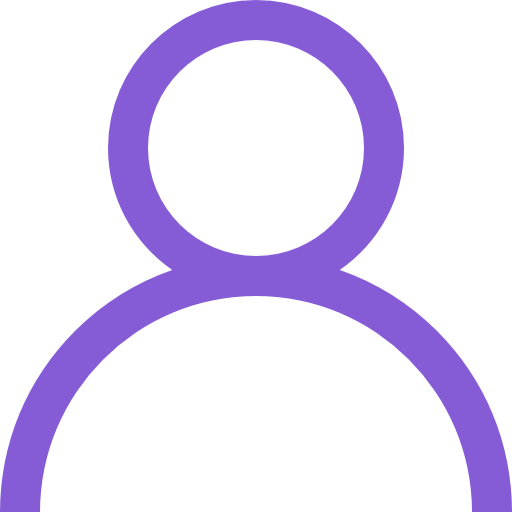
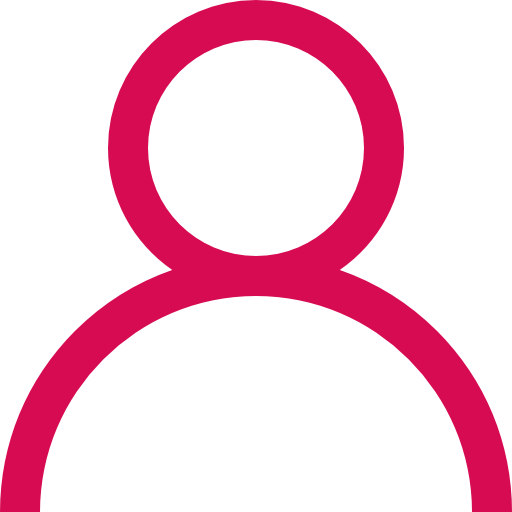
Fix grommet color

Changed region(s): [[0.0, 0.0, 1.0, 1.0]]

diff --git a/src/styles/index.css b/src/styles/index.css
@@ -31,3 +31,71 @@ body {
   font-size: 10pt;
   color: grey;
 }
+
+.grommetux-button--primary:not(.grommetux-button--focus) {
+  border-color: #d60b52;
+}
+
+.grommetux-button--primary {
+  background-color: #d60b52;
+}
+
+.grommetux-button {
+  border: 2px solid #d60b52;
+}
+
+.grommetux-button:not(.grommetux-button--disabled):not(.grommetux-button--plain):not(.grommetux-button--fill).grommetux-button--primary:hover,
+.grommetux-button:not(.grommetux-button--disabled):not(.grommetux-button--plain):not(.grommetux-button--fill):hover {
+  box-shadow: 0 0 0 2px #d60b52;
+}
+
+.grommetux-radio-button__input:checked + .grommetux-radio-button__control {
+  border-color: #d60b52;
+}
+
+.grommetux-radio-button__input:checked
+  + .grommetux-radio-button__control:after {
+  background-color: #d60b52;
+}
+
+.grommetux-background-color-index--dark
+  .grommetux-background-color-index--light
+  .grommetux-radio-button:hover:not(.grommetux-radio-button--disabled)
+  .grommetux-radio-button__control,
+.grommetux-background-color-index--light
+  .grommetux-radio-button:hover:not(.grommetux-radio-button--disabled)
+  .grommetux-radio-button__control,
+.grommetux-radio-button:hover:not(.grommetux-radio-button--disabled)
+  .grommetux-radio-button__input:checked
+  + .grommetux-radio-button__control {
+  border-color: #d60b52;
+}
+
+.grommetux-radio-button__control {
+  border: 2px solid #d60b52;
+}
+
+.grommetux-check-box__control {
+  border: 2px solid #d60b52;
+}
+
+.grommetux-background-color-index--dark
+  .grommetux-background-color-index--light
+  .grommetux-check-box:hover:not(.grommetux-check-box--disabled)
+  .grommetux-check-box__control,
+.grommetux-background-color-index--light
+  .grommetux-check-box:hover:not(.grommetux-check-box--disabled)
+  .grommetux-check-box__control,
+.grommetux-check-box:hover:not(.grommetux-check-box--disabled)
+  .grommetux-check-box__input:checked
+  + .grommetux-check-box__control {
+  border-color: #d60b52;
+}
+
+.grommetux-check-box__control-check {
+  stroke: #d60b52;
+}
+
+.grommetux-check-box__input:checked + .grommetux-check-box__control {
+  border-color: #d60b52;
+}

diff --git a/src/components/GetStartedSubjects/index.js b/src/components/GetStartedSubjects/index.js
@@ -31,7 +31,7 @@ class GetStartedEducationLevel extends Component {
       <Box full pad="large">
         <Heading>Education</Heading>
         <Box flex="grow" justify="center">
-          <Label>What is your last education level?</Label>
+          <Label>Which subjects do you feel interested in?</Label>
           <Box pad={{ between: 'small' }}>
             {options.map(el => (
               <CheckBox
@@ -49,7 +49,10 @@ class GetStartedEducationLevel extends Component {
         </Box>
         <Box pad={{ between: 'small' }}>
           <Button primary label="Next" onClick={this.submit} />
-          <Button label="Previous" onClick={() => {}} />
+          <Button
+            label="Previous"
+            onClick={() => this.props.history.push(routes.getStartedEducationLevel)}
+          />
         </Box>
       </Box>
     );

diff --git a/src/components/GetStartedEducationLevel/index.js b/src/components/GetStartedEducationLevel/index.js
@@ -66,7 +66,10 @@ class GetStartedEducationLevel extends Component {
         </Box>
         <Box pad={{ between: 'small' }}>
           <Button primary label="Next" onClick={this.submit} />
-          <Button label="Previous" onClick={() => {}} />
+          <Button
+            label="Previous"
+            onClick={() => this.props.history.push(routes.getStartedDemographic)}
+          />
         </Box>
       </Box>
     );
